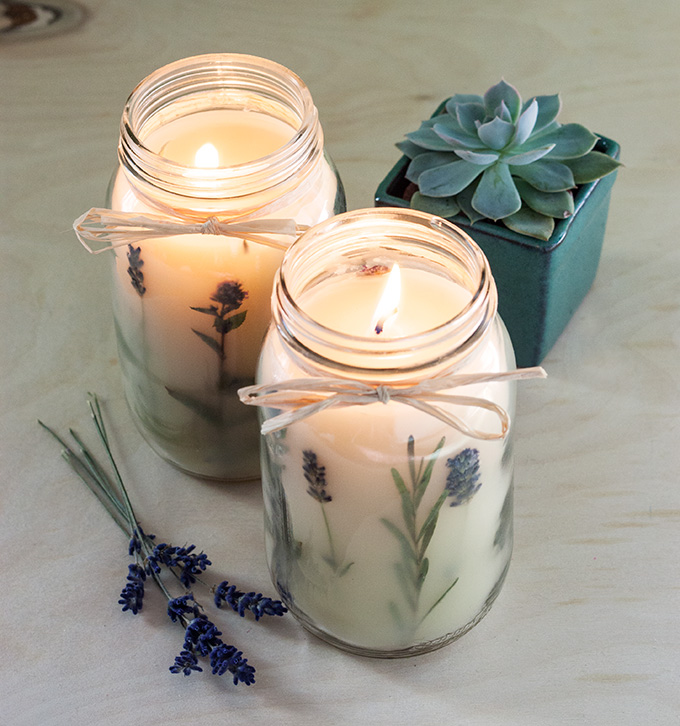
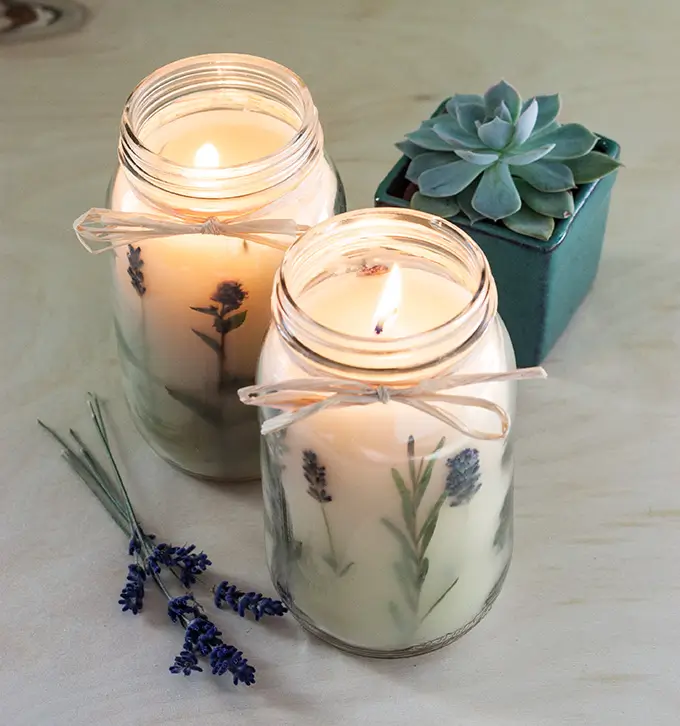
optimized images

Changed region(s): [[0.6176, 0.303, 0.6485, 0.3333], [0.4324, 0.2121, 0.4632, 0.2424], [0.1853, 0.2121, 0.2162, 0.2424]]

diff --git a/src/components/layout.css b/src/components/layout.css
@@ -322,7 +322,6 @@ body {
 
     -webkit-font-smoothing: antialiased;
     -moz-osx-font-smoothing: grayscale;
-    -moz-font-feature-settings: "liga" on;
 }
 
 ::selection {
@@ -668,7 +667,7 @@ h6 {
     padding-bottom: 20px;
     color: #fff;
     background: #fff;
-    background-image: url(../images/official_bg.jpg);
+    background-image: url(../images/official_bg.webp);
     background-repeat: no-repeat;
     background-size: contain;
     background-position: center;
